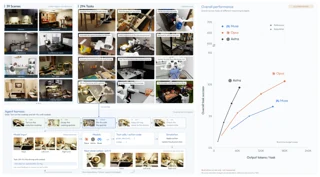
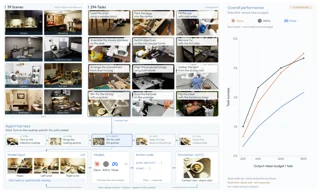
Publish the refined A figure with larger labels and a compact harness

diff --git a/data.js b/data.js
@@ -1,1 +1,1 @@
[2 lines of base64/hex data omitted]

diff --git a/index.html b/index.html
@@ -1,4 +1,4 @@
 <!doctype html>
 <html lang="zh-CN"><head><meta charset="utf-8"><meta name="viewport" content="width=device-width,initial-scale=1"><meta name="description" content="RoboWild figure library. Current figures synchronized from Google Slides, with full-resolution PNG downloads."><title>RoboWild · Figure Library</title><link rel="stylesheet" href="style.css"></head>
 <body><header><a class="brand" href="./">Robo<span>Wild</span><small>FIGURE LIBRARY</small></a><div class="source"><span class="dot"></span>Google Slides 与衍生版本<small id="updated"></small></div></header>
-<main><aside><div class="list-heading"><h1>全部版本</h1><span id="count"></span></div><p class="hint">Slides 原稿 + 新增设计版本</p><nav id="versions" aria-label="图稿版本"></nav></aside><section class="viewer" aria-labelledby="title"><div class="viewer-heading"><div><p id="page-label" class="eyebrow"></p><h2 id="title"></h2><p id="dimensions" class="hint"></p></div><div class="actions"><a id="open" target="_blank" rel="noopener">打开原图 ↗</a><a id="download" class="primary" download>下载 PNG ↓</a></div></div><a id="image-link" target="_blank" rel="noopener" title="打开原尺寸 PNG"><img id="figure" alt="" width="3200" height="3390"></a><footer><span>原稿同步保留 · 衍生版本独立展示</span><span id="position"></span></footer></section></main><noscript>请启用 JavaScript 查看和切换全部图稿。</noscript><script src="data.js?v=5afb4bfdf739729f"></script><script src="app.js?v=5afb4bfdf739729f"></script></body></html>
+<main><aside><div class="list-heading"><h1>全部版本</h1><span id="count"></span></div><p class="hint">Slides 原稿 + 新增设计版本</p><nav id="versions" aria-label="图稿版本"></nav></aside><section class="viewer" aria-labelledby="title"><div class="viewer-heading"><div><p id="page-label" class="eyebrow"></p><h2 id="title"></h2><p id="dimensions" class="hint"></p></div><div class="actions"><a id="open" target="_blank" rel="noopener">打开原图 ↗</a><a id="download" class="primary" download>下载 PNG ↓</a></div></div><a id="image-link" target="_blank" rel="noopener" title="打开原尺寸 PNG"><img id="figure" alt="" width="3200" height="3390"></a><footer><span>原稿同步保留 · 衍生版本独立展示</span><span id="position"></span></footer></section></main><noscript>请启用 JavaScript 查看和切换全部图稿。</noscript><script src="data.js?v=deab88b10f2c31dc"></script><script src="app.js?v=deab88b10f2c31dc"></script></body></html>
